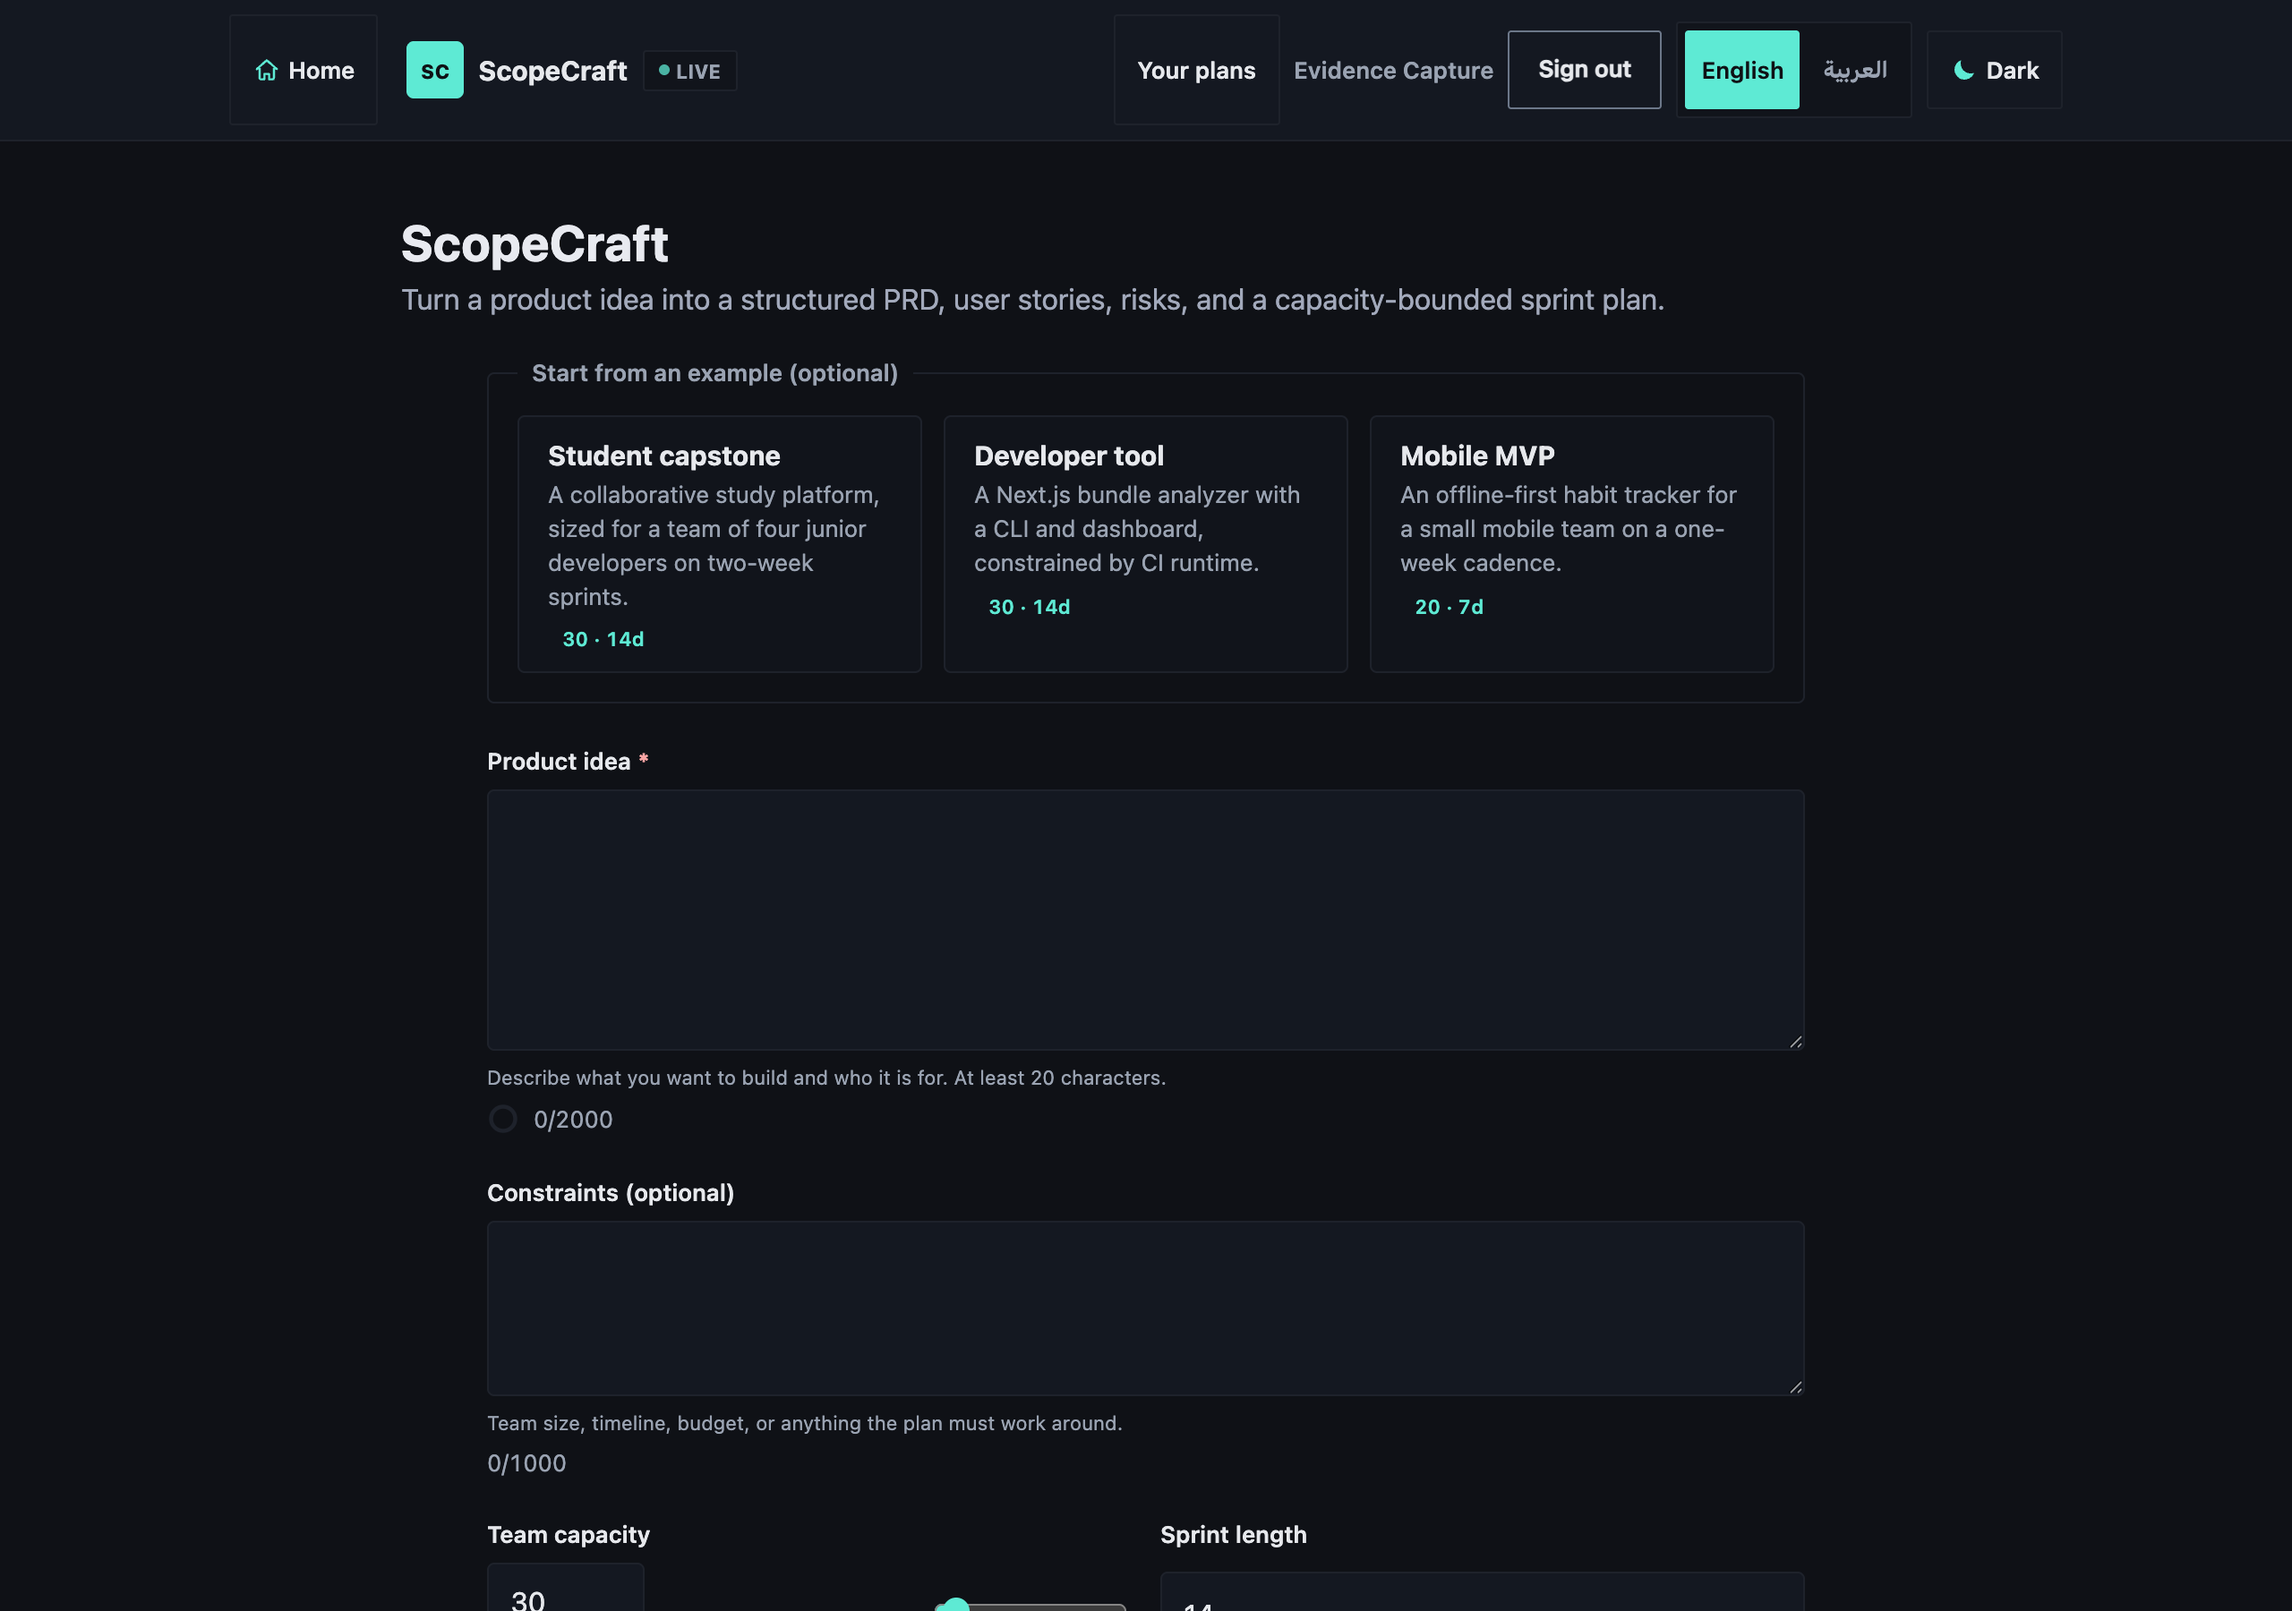
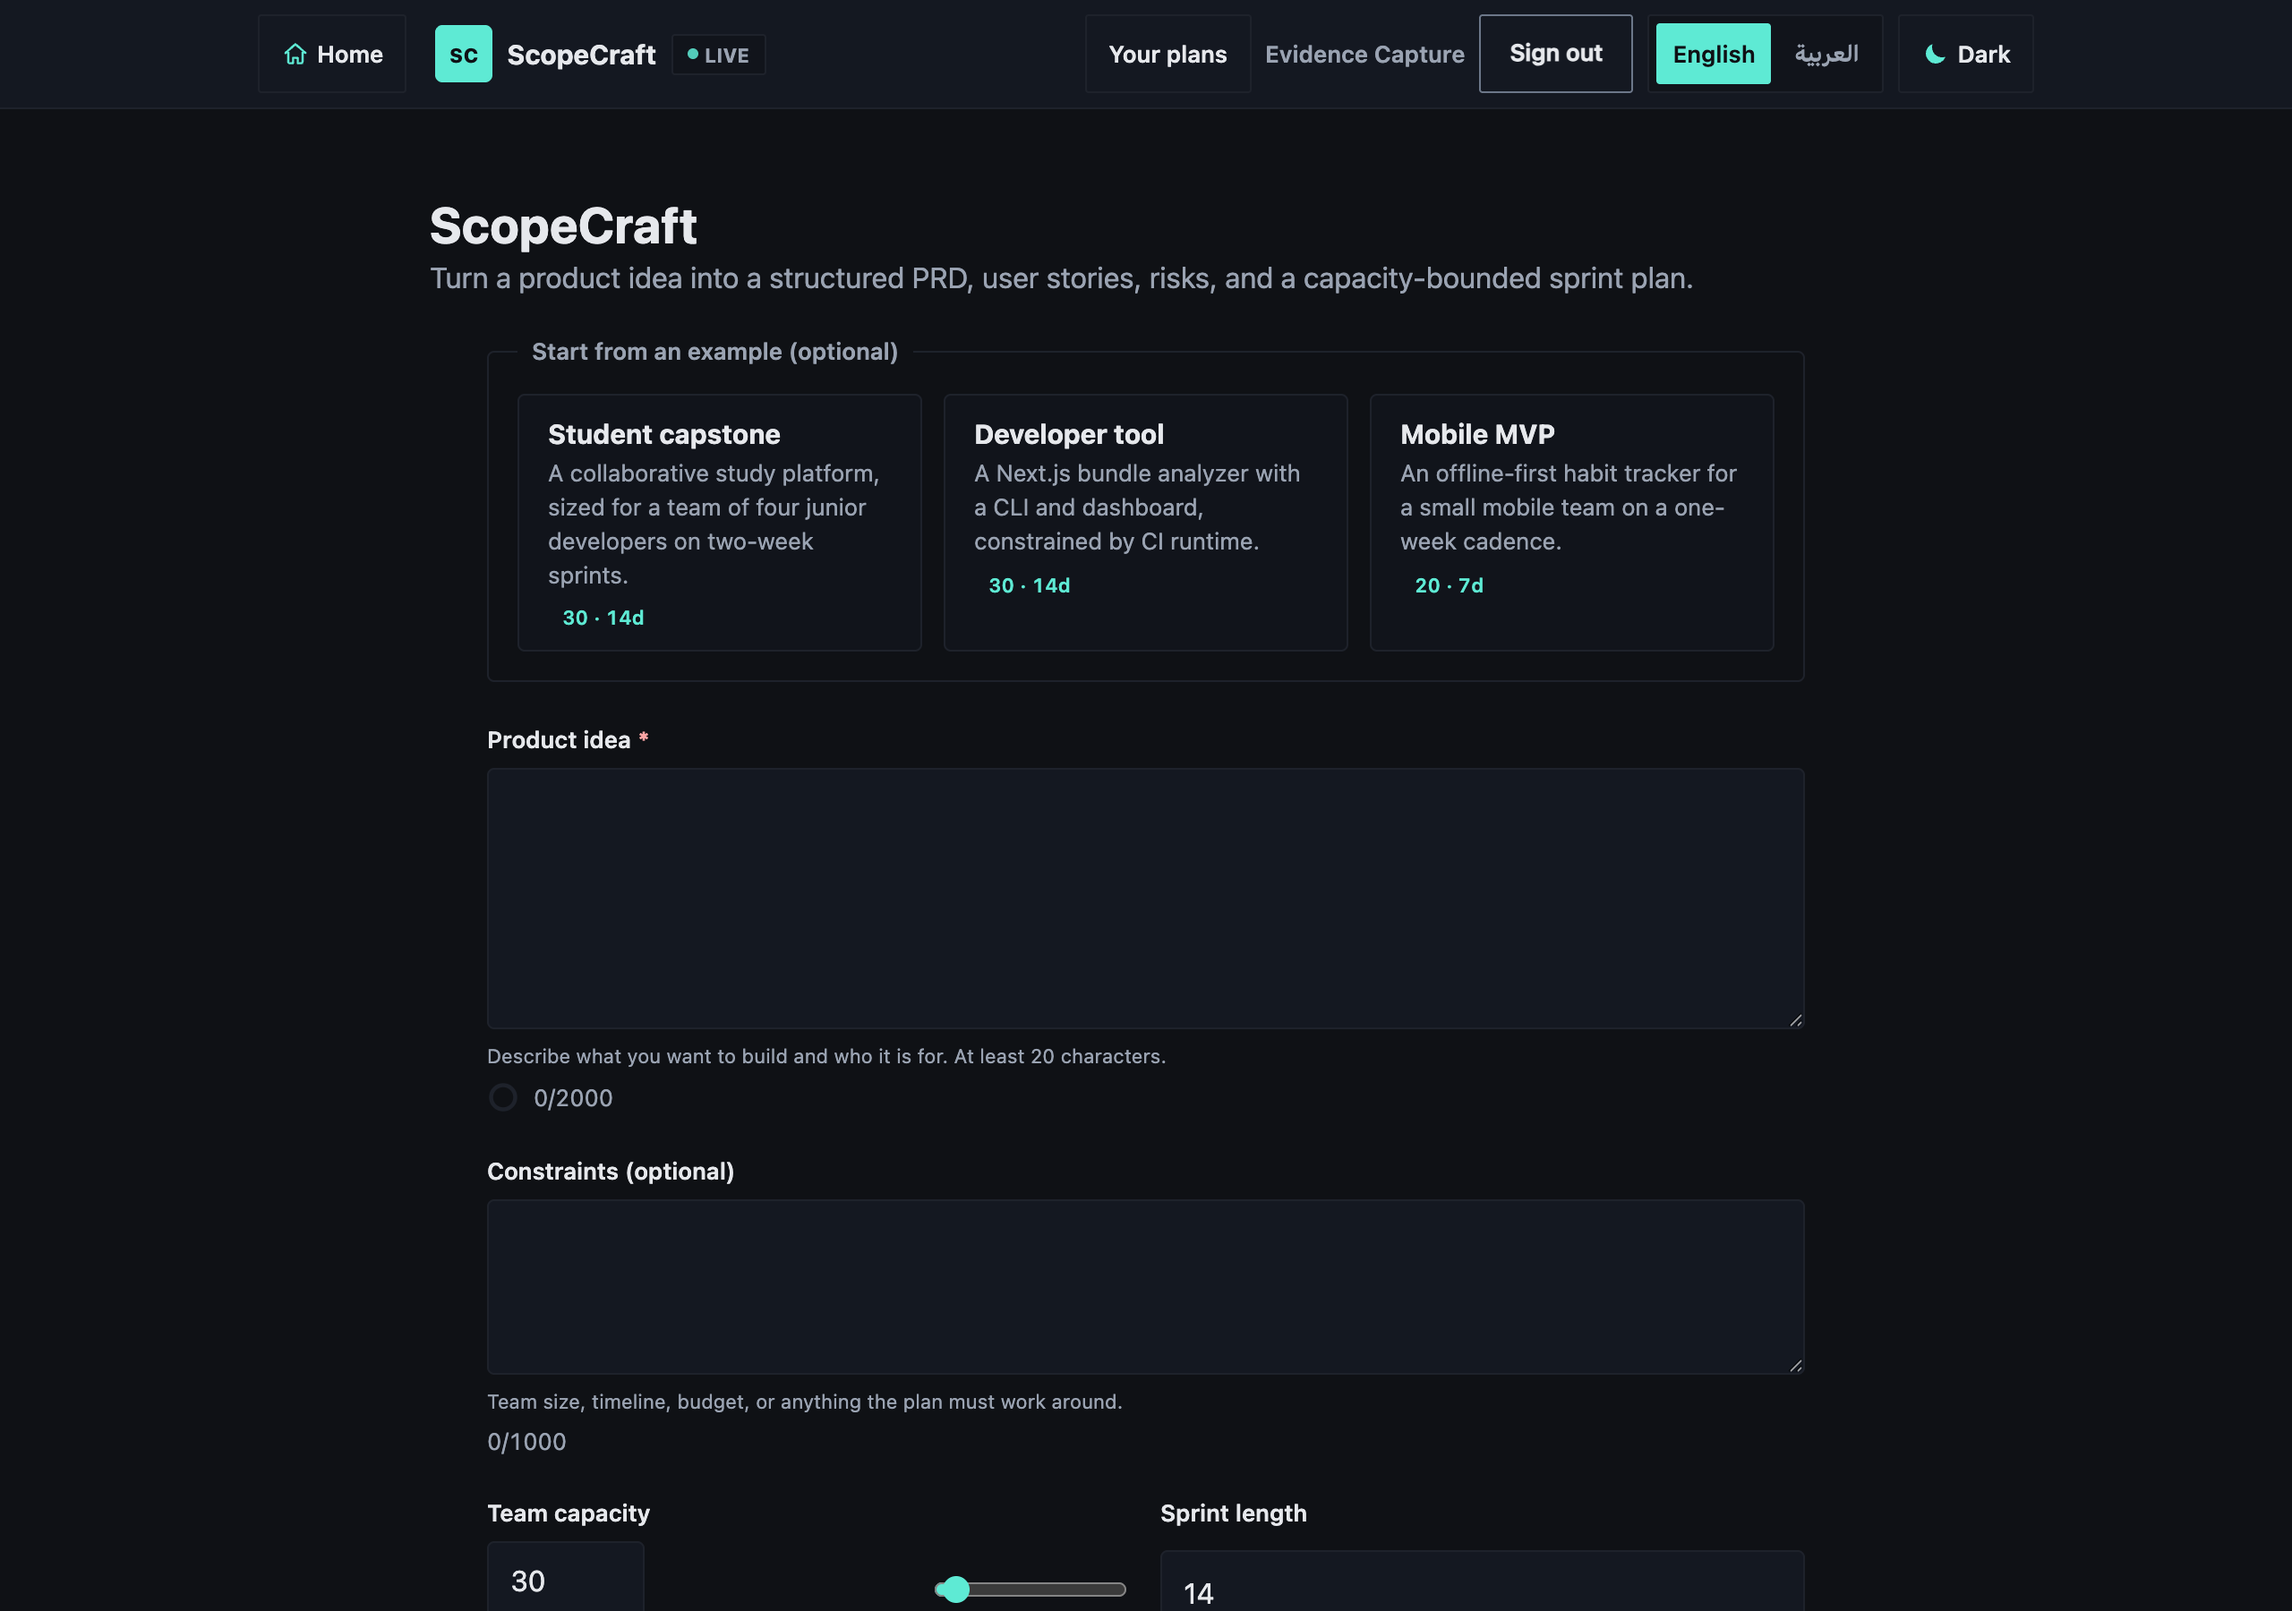
docs: recapture the full evidence set and sweep the drifted numbers
F1/F5. 17 screenshots and the audit, exit 0, against the build with the
legacy token layer deleted. This is the first complete capture since Point 4
-- Points 5 and 6 ran it as a gate and it stopped at RATE_LIMITED, so their
partial output was reverted rather than committed. The limiter is a rolling
24-hour window, not a calendar day, so it does not reset at midnight; this
run raised DAILY_PLAN_LIMIT locally, which is what that env knob is for. No
code changed and nothing about the capture is less real for it.

Both themes still PASS with 0 below AA, and three measurements moved for
reasons worth naming rather than glossing:

  - The skip link went 6.58 to 5.47 in light and 8.14 to 12.77 in dark. It
    moved off the legacy blue onto --c-accent, so 5.47 is now exactly
    accent-contrast on accent -- the pair design-tokens.test.ts asserts. A
    system value, not an accident, and still clear of 4.5.
  - Body text darkened from #1a1c22 to #0a0a0a: --fg is gone and body takes
    --c-text. The brand and h1 rose from 17.03 to 19.8 as a result.
  - The header measures 61px where it measured 79px, which is the
    box-sizing reset making the declared 44px targets real.

F3: no horizontal overflow at 1280, 768 or 390px in either direction.
F4: 486 tests over 21 suites -- 222 node, 264 UI.

H3, the number sweep. Live documents updated to 486/21 and 17 screenshots:
CLAUDE.md, README.md, HANDOFF.md, AI_USAGE.md, local-development.md,
project-plan.md and evidence/README.md.
[…]

diff --git a/docs/project-plan.md b/docs/project-plan.md
@@ -1056,7 +1056,7 @@ Legend: **✅ current** · **⚠ exists but stale or incomplete** · **❌ mi
 | 27 | Environment | **Deployment guide** | `docs/deployment.md` | The fork-deploy trap lives only in `HANDOFF.md` and `CLAUDE.md`, neither team-facing |
 | 28 | Environment | **Environment variables reference** | `docs/environment-variables.md` | Eleven variables across three concerns; the README table is outgrowing itself |
 | 29 | Frontend | **Frontend architecture** | `docs/frontend-architecture.md` | **The biggest gap.** No component map, no state model, nothing on the seven-state union or the pre-paint theme/locale scripts. Backend has three documents; frontend has zero |
-| 30 | QA | **QA & test plan** | `docs/qa-test-plan.md` | 290 tests with no document saying what is covered, what is not, and how manual QA runs |
+| 30 | QA | **QA & test plan** | `docs/qa-test-plan.md` | 486 tests with no document saying what is covered, what is not, and how manual QA runs |
 | 31 | QA | **Manual QA evidence** | `docs/evidence/qa/` | 6.5 produces findings with nowhere to live |
 | 32 | Operations | **Runbook / troubleshooting** | `docs/runbook.md` | What to do when providers fail, the database is down, or sign-in breaks. Every known finding is a runbook entry |
 | 33 | Submission | **Known limitations** | `docs/known-limitations.md` | The rubric asks for *signed-off* known limitations. Currently scattered across README, architecture and the decision log |

diff --git a/AI_USAGE.md b/AI_USAGE.md
@@ -159,10 +159,10 @@ fixes each added tests.
 |---|---|---|
 | Lint | `npm run lint` | exit 0 — eslint `--max-warnings=0`, no output |
 | Types | `npx tsc --noEmit` | exit 0 — no diagnostics |
-| Tests | `npm test` | **245/245 passing**, 8 suites — 131 node (API · tools · evaluation) + 114 UI. Was 130/130 on 2026-08-23 |
+| Tests | `npm test` | **486/486 passing**, 21 suites — 222 node (API · tools · evaluation) + 264 UI. Was 245/245 on 2026-08-24 and 130/130 on 2026-08-23 |
 | Live providers | `npm run smoke` | all three reachable and answering |
 | API evidence | `npm run capture:evidence` | 11/11 cases matched `docs/api-contracts.md` |
-| UI + a11y evidence | `npm run capture:ui` | 16 screenshots; 36 contrast pairs, 0 below WCAG AA |
+| UI + a11y evidence | `npm run capture:ui` | 17 screenshots; 38 contrast pairs (18 light, 20 dark), 0 below WCAG AA |
 | Build | `npm run build` | exit 0 — 4 routes, `/api/scopecraft` dynamic |
 | Client secret scan | `grep -rqE "AIza\|gsk_\|nvapi-" .next/static \|\| echo "CLEAN"` | `CLEAN` |
 | `NEXT_PUBLIC_` audit | `grep -rn "NEXT_PUBLIC_" src/` | no matches |

diff --git a/HANDOFF.md b/HANDOFF.md
@@ -113,7 +113,7 @@ Router), React 19, TypeScript strict, Zod 4. Team 10, four members.
 
 ### Verified green
 
-- **293 tests**, 12 suites (151 node: API · tools · evaluation — 142 UI)
+- **486 tests**, 21 suites (222 node: API · tools · evaluation — 264 UI)
 - `npm run lint` (`--max-warnings=0`), `npx tsc --noEmit`, `npm run build` all clean
 - Client-bundle secret scan clean; git history scan clean (0 hits, all branches)
 - All three providers reachable (`npm run smoke`)
@@ -275,7 +275,7 @@ Four of the five need a human decision or a human visit, not code.
 ```bash
 cd ~/Downloads/ScopeCraft
 
-npm test                 # 293 tests, 12 suites
+npm test                 # 486 tests, 21 suites
 npm run lint             # --max-warnings=0
 npx tsc --noEmit
 npm run build

diff --git a/docs/evidence/README.md b/docs/evidence/README.md
@@ -36,7 +36,7 @@ dependency — and fills the real form so every state shot is a real state.
 | [`ui/ui-evidence.md`](ui/ui-evidence.md) | All seven workflow states, responsive views, theme and RTL, plus the `PLANNING_ERROR` reliability finding |
 | [`ui/accessibility-checklist.md`](ui/accessibility-checklist.md) | WCAG 2.2 AA checklist, each row measured or test-backed |
 | [`ui/accessibility-audit.txt`](ui/accessibility-audit.txt) | Raw measured output — contrast table, control names, landmarks, overflow |
-| [`ui/shots/`](ui/shots) | 16 screenshots at 1280 / 768 / 390px, light and dark, English and Arabic RTL |
+| [`ui/shots/`](ui/shots) | 17 screenshots at 1280 / 768 / 390px, light and dark, English and Arabic RTL |
 
 ## Acceptance criteria → evidence
 

diff --git a/README.md b/README.md
@@ -5,7 +5,7 @@ sprint plan.
 
 **Live public beta:** **https://scope-craft-nine.vercel.app/scopecraft**
 
-**Status:** deployed and live-verified. Lint, type-check, **290/290 tests** and the
+**Status:** deployed and live-verified. Lint, type-check, **486/486 tests** and the
 production build all pass. All three AI providers are confirmed reachable with real
 credentials (`npm run smoke`), and the full journey has been exercised **against the
 deployed production URL** — a real idea returns a coherent 11-field PRD with a
@@ -167,7 +167,7 @@ once.
 ## Test and verify
 
 ```bash
-npm test          # 290 tests, 12 suites
+npm test          # 486 tests, 21 suites
 npm run typecheck
 npm run lint
 npm run build

diff --git a/docs/local-development.md b/docs/local-development.md
@@ -146,7 +146,7 @@ URL on the same one.
 ```bash
 npm run typecheck     # tsc --noEmit
 npm run lint          # eslint --max-warnings=0
-npm test              # 290 tests, 12 suites
+npm test              # 486 tests, 21 suites
 npm run build
 ```
 
